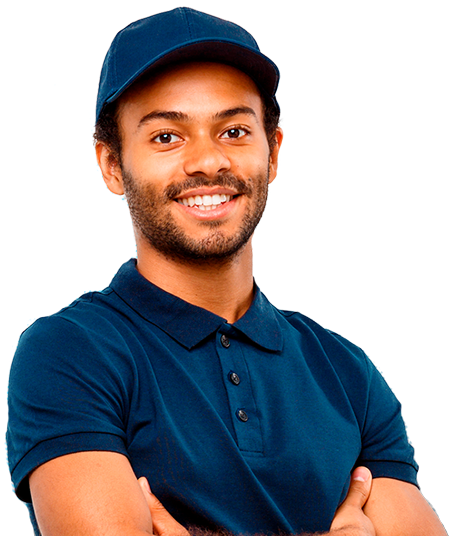
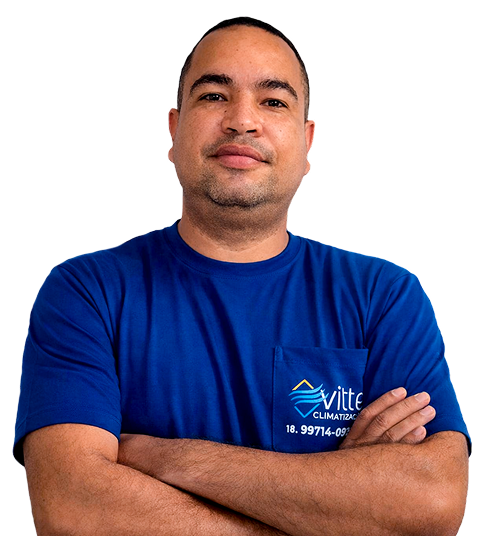
alterando as imagens do cliente

diff --git a/src/components/organisms/Banner/styles.ts b/src/components/organisms/Banner/styles.ts
@@ -78,7 +78,7 @@ export const TextSection = styled.div`
     }
 
     ${media.md} {
-        top:-30px;
+        top: -30px;
     }
 
     ${media.lg} {
@@ -143,7 +143,7 @@ export const ButtonContainer = styled.div`
     ${media.sm} {
         flex-direction: row;
         gap: 1.5rem;
-        
+
         button {
             padding: 16px 32px !important;
             font-size: 18px !important;
@@ -152,7 +152,7 @@ export const ButtonContainer = styled.div`
 
     ${media.md} {
         gap: 1.5rem;
-        
+
         button {
             flex: 1;
             min-width: 0;
@@ -191,16 +191,16 @@ export const BannerImage = styled.img`
     z-index: 998;
 
     ${media.sm} {
-        right: 30%;
-        width: 350px;
+        right: 39%;
+        width: 375px;
     }
 
     ${media.md} {
-        width: 320px;
+        width: 356px;
     }
 
     ${media.lg} {
-        width: 380px;
+        width: 460px;
         right: 0;
         transform: none;
     }
